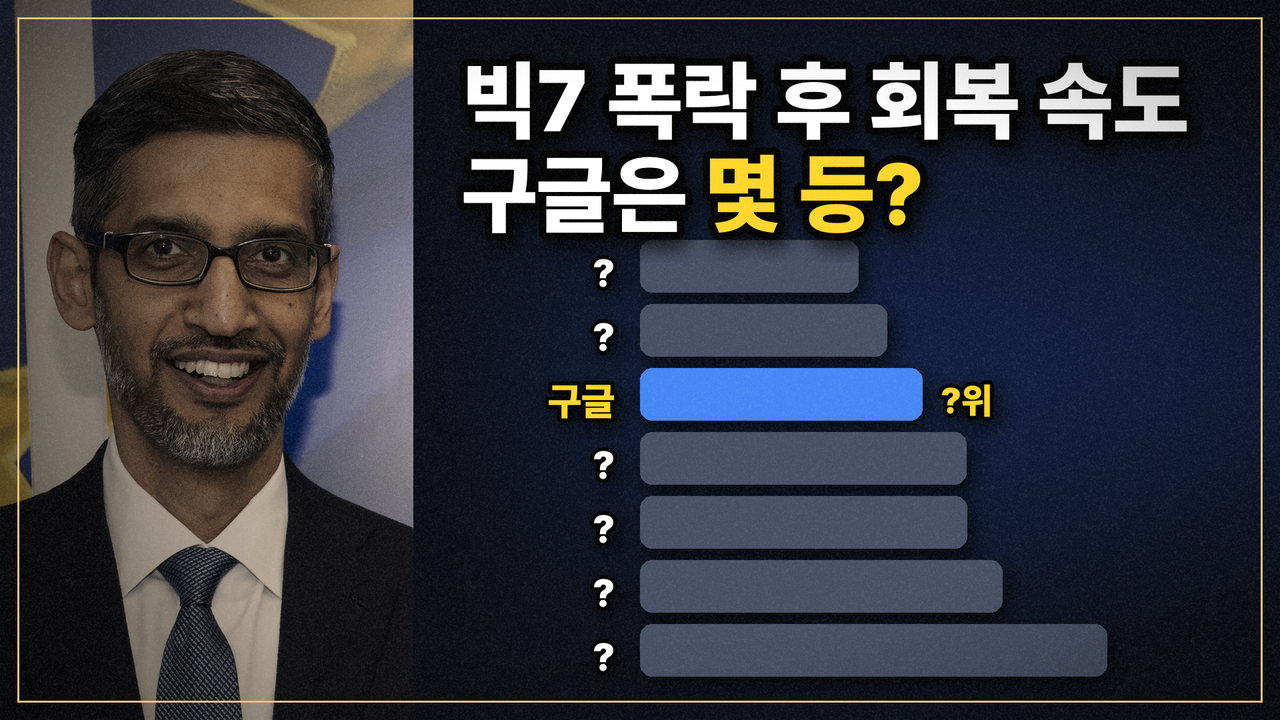
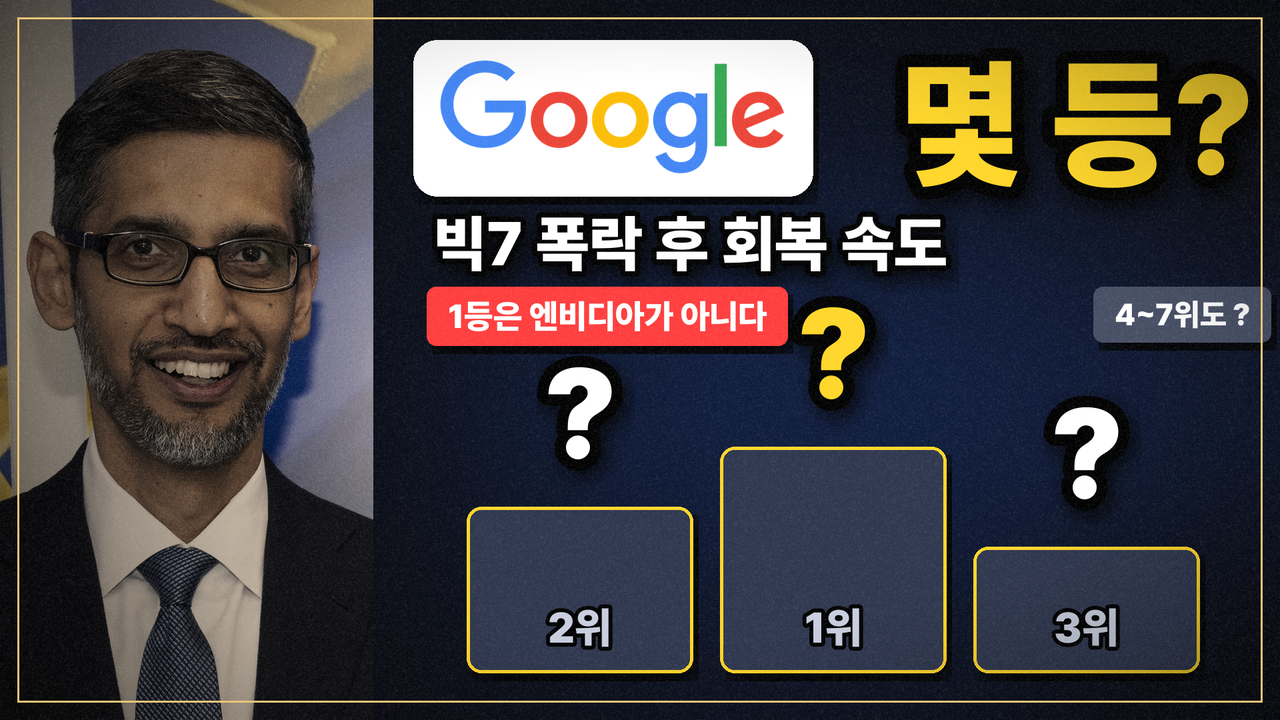
EP024 썸네일 T05 개편: 구글 로고 + 시상대 1~3위 전부 '?' (사용자 선택 T05)
Claude-Session: https://claude.ai/code/session_01XzgYRsYwxnJKVwoBmLGtiR

diff --git a/youtube/tools/thumb_google.py b/youtube/tools/thumb_google.py
@@ -129,6 +129,32 @@ def make(sp):
         shade(f, "left", 0.42, 120)
         TH.shadowed(f, bars(sp), (700, 350))
         TH.shadowed(f, big(sp["top"], 130, 1250, color=WHITE, hl=sp.get("hl", ""), hl_color=YEL), (680, 60))
+    elif v == "podium":      # 11/23 사용자: T05 + 구글 로고 · 순위 힌트는 더 궁금하게 (시상대 1~3위 전부 '?')
+        f = TH.bg_dark((20, 50, 120), (0.65, 0.55))
+        f.alpha_composite(photo("g_pichai", 560, H, focus=(0.5, 0.25), dark=0.3, gray=0.2), (0, 0))
+        shade(f, "left", 0.36, 110)
+        # 구글 로고 카드 (상표: 변형 없이)
+        lg = Image.open(ROOT / "assets/photos/g_logo_flat.png").convert("RGBA")
+        lg = lg.resize((520, int(520 * lg.height / lg.width)), Image.LANCZOS)
+        card = Image.new("RGBA", (lg.width + 80, lg.height + 60), (0, 0, 0, 0))
+        ImageDraw.Draw(card).rounded_rectangle((0, 0, card.width - 1, card.height - 1), 36, fill=(255, 255, 255, 255))
+        card.alpha_composite(lg, (40, 30))
+        TH.shadowed(f, card, (620, 60))
+        TH.shadowed(f, big("몇 등?", 210, 700, color=YEL), (1330, 40))
+        TH.shadowed(f, big("빅7 폭락 후 회복 속도", 92, 1250, color=WHITE), (640, 300))
+        # 시상대: 2위 · 1위 · 3위 (전부 물음표 + 커튼)
+        x0, base_y = 700, 1010
+        for rank, hgt, x in ((2, 250, x0), (1, 340, x0 + 380), (3, 190, x0 + 760)):
+            blk = Image.new("RGBA", (340, hgt), (0, 0, 0, 0))
+            dd = ImageDraw.Draw(blk)
+            dd.rounded_rectangle((0, 0, 339, hgt - 1), 22, fill=(46, 54, 78, 255), outline=(255, 214, 40, 255), width=5)
+            n = TH.T(f"{rank}위", 64, (200, 206, 222))
+            blk.alpha_composite(n, ((340 - n.width) // 2, hgt - n.height - 22))
+            TH.shadowed(f, blk, (x, base_y - hgt))
+            q = TH.T("?", 190, YEL if rank == 1 else WHITE)
+            TH.shadowed(f, q, (x + 170, base_y - hgt - 8), "mb")
+        TH.shadowed(f, pill("4~7위도 ?", 46, bg=(70, 78, 100)), (1640, 430))
+        TH.shadowed(f, pill("1등은 엔비디아가 아니다", 50, bg=RED), (640, 430))
     elif v == "phone":       # 검색 화면 + AI 질문
         f.alpha_composite(photo("g_search_phone", W, H, focus=(0.45, 0.4), dark=0.3, gray=0.1))
         shade(f, "left", 0.7, 245)
@@ -169,7 +195,7 @@ SPECS = [
     {"name": "T02", "v": "ceo", "tag": "구글에 물린 분들", "big": "-34%", "bottom": "과거 데이터가\n말해 준 결말", "hl": "결말"},
     {"name": "T03", "v": "crash", "tag": "역대 최악의 하루", "big": "669조 증발", "hl_big": "669조", "bottom": "구글, 지금이 바닥일까?"},
     {"name": "T04", "v": "dots", "top": "구글 -20% 폭락, 16년간 8번", "hl_top": "8번", "bottom": "7번은 회복\n지금이 8번째", "hl": "8번째"},
-    {"name": "T05", "v": "bars", "top": "빅7 폭락 후 회복 속도\n구글은 몇 등?", "hl": "몇 등?"},
+    {"name": "T05", "v": "podium"},
     {"name": "T06", "v": "phone", "top": "AI가 구글을 먹었다?", "hl_top": "AI", "big": "-34%", "bottom": "지금 사면 바닥? 함정?"},
     {"name": "T07", "v": "vs", "top": "구글 -30%에 산 사람들", "hl": "-30%", "cards": [("+94%", "2020년 3월에 샀다면", MINT), ("-20% 더", "2022년 9월에 샀다면", RED)]},
     {"name": "T08", "v": "money", "top": "1초에 560만 원 버는 회사가", "hl_top": "560만 원", "big": "1초 = 560만", "bottom": "주가는 -34%?", "hl": "-34%"},
